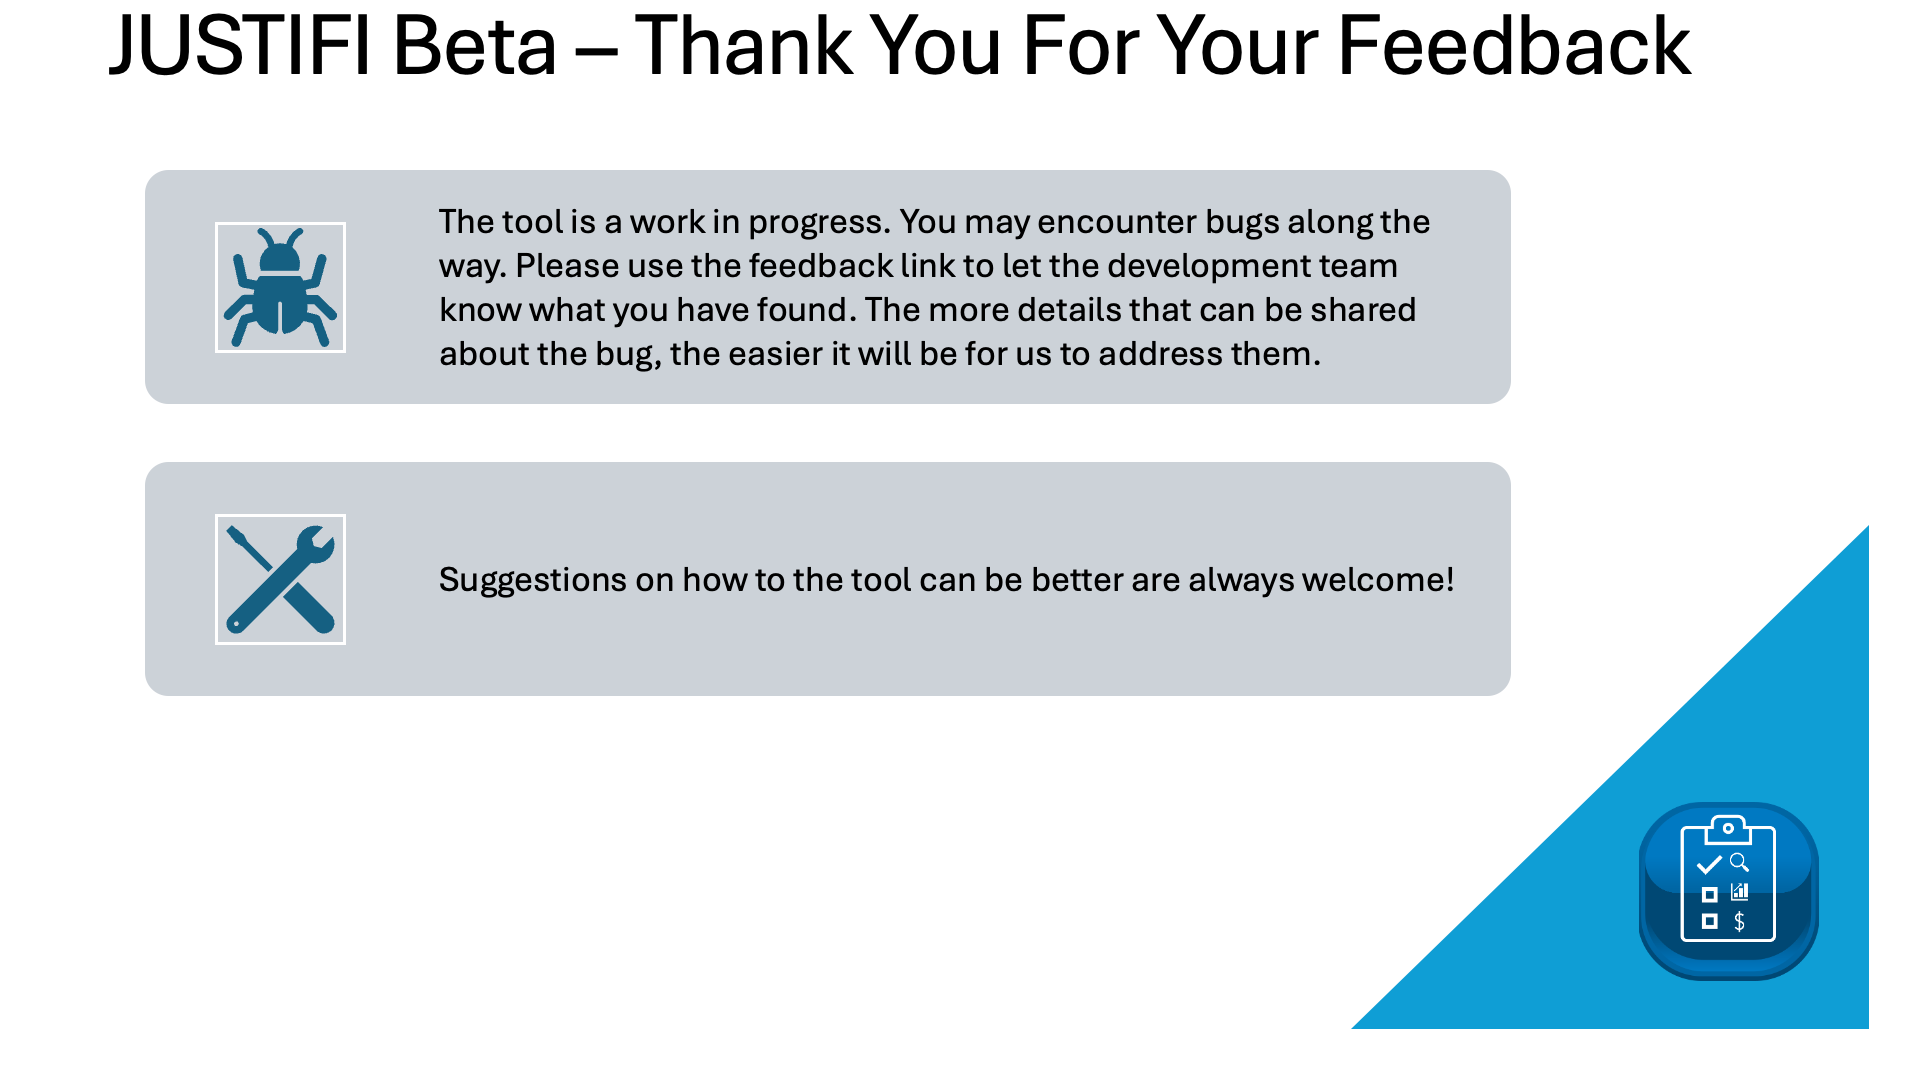
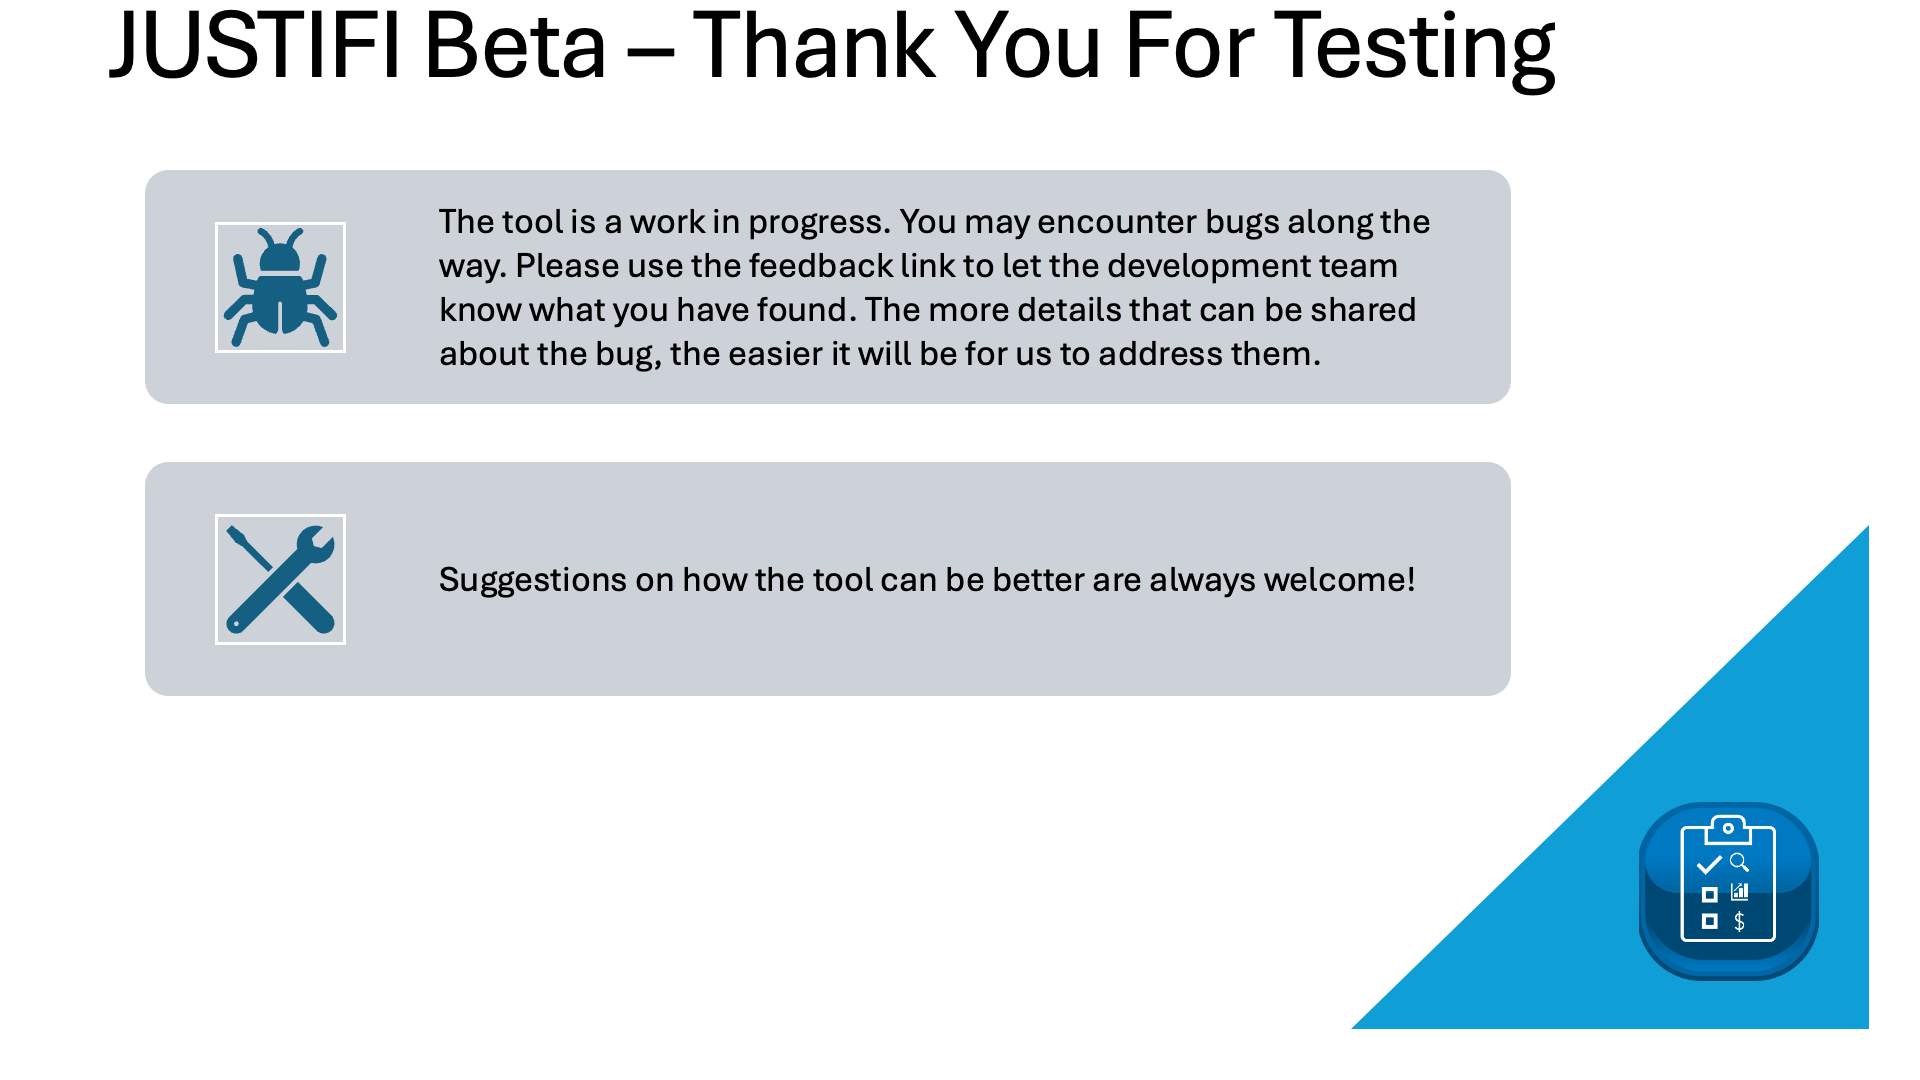
fix typos

Changed region(s): [[0.0625, 0.0, 0.875, 0.0917], [0.4062, 0.5194, 0.75, 0.55]]

diff --git a/src/app/core-components/feedback-page/feedback-page.component.html b/src/app/core-components/feedback-page/feedback-page.component.html
@@ -29,7 +29,7 @@
                 If you happen to encounter a bug while using JUSTIFI please report them to the <a
                     href="mailto:justifi-help@ornl.gov">JUSTIFI help desk</a> (justifi-help&#64;ornl.gov)
                 using the subject <span class="bold">“JUSTIFI Bug Reporting - A Summary”</span>.
-                Kristina will work with you to resolve the issue and
+                The team will work with you to resolve the issue and
                 make sure the bug is fixed to prevent future occurrences.
             </p>
             <p>
